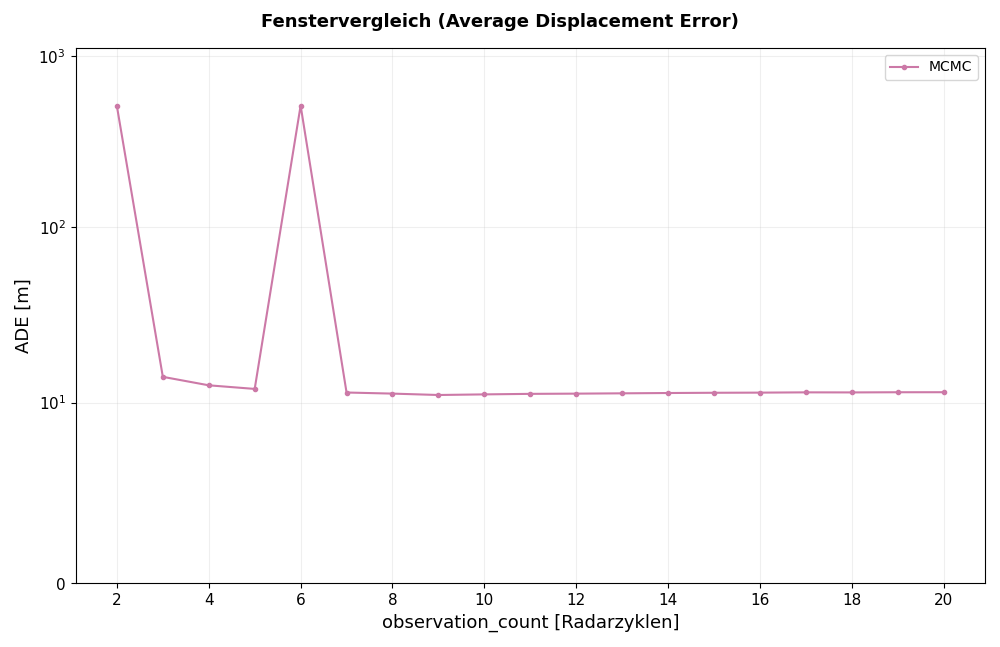
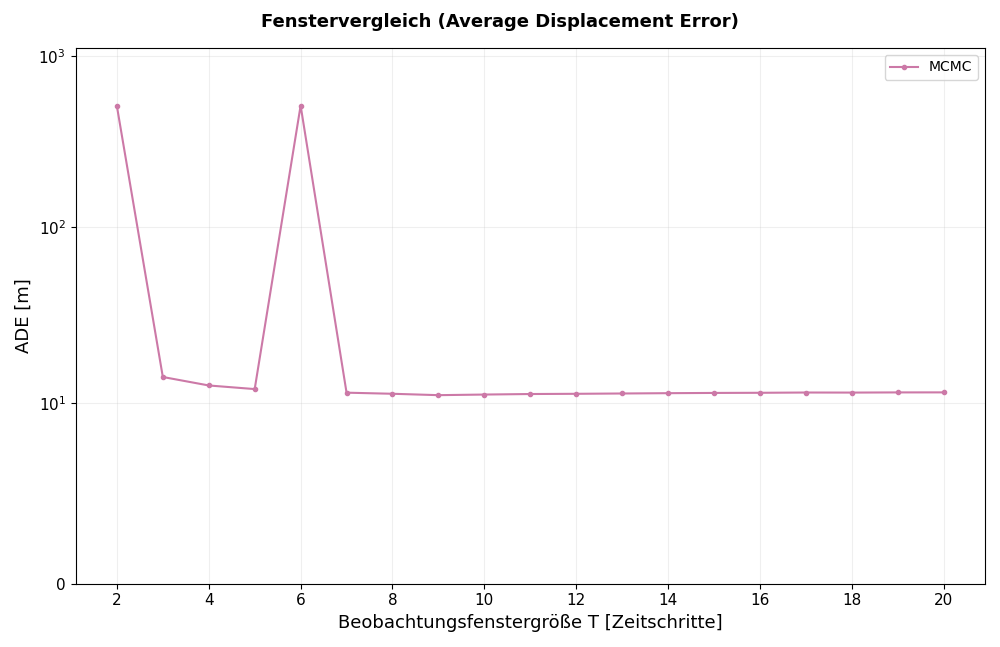
Align observation-count table notation with model comparisons and clarify observation window labels

diff --git a/tests/test_compare_bayesian_imm.py b/tests/test_compare_bayesian_imm.py
@@ -182,8 +182,8 @@ def test_configured_window_sizes_appear_in_curves_coverage_and_summary(
             ]
         figure, axis = figures[-1]
         cells = axis.tables[0].get_celld()
-        for column, label in enumerate(expected, start=1):
-            assert cells[0, column].get_text().get_text() == label.replace(" (", "\n(")
+        for row, label in enumerate(expected, start=1):
+            assert cells[row, 0].get_text().get_text() == label.replace(" (", "\n(")
         figure.canvas.draw()
         renderer = figure.canvas.get_renderer()
         for cell in cells.values():
@@ -537,11 +537,11 @@ def test_run_button_compares_all_five_csvs_without_running_models_or_writing_out
             assert axis.get_yscale() == "linear"
             np.testing.assert_allclose(axis.lines[0].get_ydata(), nominal)
         table = shown[8].axes[0].tables[0]
-        assert [table[0, column].get_text().get_text() for column in range(1, 6)] == [
+        assert [table[row, 0].get_text().get_text() for row in range(1, 6)] == [
             label.replace(" (", "\n(") for label in PLOT_MODEL_LABELS[plot_language]
         ]
         assert table[1, 1].get_text().get_text() == "9.250"
-        assert table[6, 1].get_text().get_text() == "25.0%"
+        assert table[1, 6].get_text().get_text() == "25.0%"
         assert set(tmp_path.iterdir()) == set(paths.values())
         assert {path: path.read_bytes() for path in paths.values()} == originals
     finally:
@@ -574,26 +574,26 @@ def test_summary_table_preserves_values_and_fits_labels_inside_export(
         cells = table.get_celld()
         assert len(cells) == 9 * (model_count + 1)
         assert cells[0, 0].get_text().get_text() == (
-            "Metrik" if plot_language == "de" else "Metric"
+            "Modell" if plot_language == "de" else "Model"
         )
         assert figure._suptitle.get_text() == (
             "Modellvergleich (Metrikübersicht)"
             if plot_language == "de"
             else "Model comparison (Metric summary)"
         )
-        assert cells[8, 0].get_text().get_text() == (
-            "Laufzeit [s]" if plot_language == "de" else "Runtime [s]"
+        assert cells[0, 8].get_text().get_text() == (
+            "Laufzeit\n[s]" if plot_language == "de" else "Runtime\n[s]"
         )
         assert cells[1, 1].get_text().get_text() == "9.250"
-        assert cells[8, 1].get_text().get_text() == "0.003"
-        assert cells[6, 1].get_text().get_text() == "25.0%"
-        assert cells[7, 1].get_text().get_text() == "75.0%"
+        assert cells[1, 8].get_text().get_text() == "0.003"
+        assert cells[1, 6].get_text().get_text() == "25.0%"
+        assert cells[1, 7].get_text().get_text() == "75.0%"
         assert list(summary.columns) == ["metric", *models, "preferred"]
-        for column, name in enumerate(models, start=1):
-            assert cells[0, column].get_text().get_text() == (
-                PLOT_MODEL_LABELS[plot_language][column - 1].replace(" (", "\n(")
+        for row, name in enumerate(models, start=1):
+            assert cells[row, 0].get_text().get_text() == (
+                PLOT_MODEL_LABELS[plot_language][row - 1].replace(" (", "\n(")
             )
-            for row, (metric, value) in enumerate(
+            for column, (metric, value) in enumerate(
                 zip(summary["metric"], summary[name], strict=True), start=1
             ):
                 assert cells[row, column].get_text().get_text() == (
@@ -617,7 +617,10 @@ def test_summary_table_preserves_values_and_fits_labels_inside_export(
 
 
 @pytest.mark.parametrize("plot_language", ["de", "en"])
-def test_summary_table_bolds_best_metrics_and_coverage_calibration(plot_language):
+@pytest.mark.parametrize("transpose", [False, True])
+def test_summary_table_bolds_best_metrics_and_coverage_calibration(
+    plot_language, transpose
+):
     summary = pd.DataFrame(
         {
             "metric": [
@@ -642,6 +645,7 @@ def test_summary_table_bolds_best_metrics_and_coverage_calibration(plot_language
         ["A", "B", "C"],
         text=runtime_plotting.COMPARISON_PLOT_TEXT[plot_language],
         title=None,
+        transpose=transpose,
     )
     try:
         cells = axis.tables[0].get_celld()
@@ -650,12 +654,16 @@ def test_summary_table_bolds_best_metrics_and_coverage_calibration(plot_language
             assert {
                 column
                 for column in (1, 2, 3)
-                if cells[row, column].get_text().get_weight() == "bold"
+                if cells[(column, row) if transpose else (row, column)]
+                .get_text()
+                .get_weight()
+                == "bold"
             } == expected
-            assert cells[row, 0].get_text().get_weight() == "normal"
+            if not transpose:
+                assert cells[row, 0].get_text().get_weight() == "normal"
         # Rank the original values even when displayed values round identically.
-        assert cells[6, 1].get_text().get_text() == "0.011"
-        assert cells[6, 2].get_text().get_text() == "0.011"
+        assert cells[(1, 6) if transpose else (6, 1)].get_text().get_text() == "0.011"
+        assert cells[(2, 6) if transpose else (6, 2)].get_text().get_text() == "0.011"
         pd.testing.assert_frame_equal(summary, original)
     finally:
         plt.close(figure)

diff --git a/src/bayestraj/validation/runtime_plotting.py b/src/bayestraj/validation/runtime_plotting.py
@@ -373,7 +373,15 @@ def plot_model_comparison(
             else text
         )
         figure, axis = _plot_comparison_summary_table(
-            summary, labels, text=summary_text, title=title
+            summary,
+            [label.replace(" (", "\n(") for label in labels],
+            text={
+                **summary_text,
+                "metric": "Modell" if plot_language == "de" else "Model",
+            },
+            title=title,
+            transpose=True,
+            metric_column_width=1.1,
         )
         if output_dir is not None:
             figure.savefig(
@@ -403,9 +411,9 @@ def plot_observation_count_comparison(
     text = COMPARISON_PLOT_TEXT[plot_language]
     title = "Fenstervergleich" if plot_language == "de" else "Window-size comparison"
     xlabel = (
-        "observation_count [Radarzyklen]"
+        "Beobachtungsfenstergröße T [Zeitschritte]"
         if plot_language == "de"
-        else "observation_count [radar cycles]"
+        else "Observation window size T [time steps]"
     )
     if output_dir is not None:
         output_dir = Path(output_dir)
@@ -495,7 +503,7 @@ def plot_observation_count_comparison(
         figures.append((figure, axis))
     if show_summary_table:
         configurations = {
-            f"{label} (n={int(row['observation_count'])})": [
+            f"{label} (T={int(row['observation_count'])})": [
                 row.get(metric, np.nan) for metric in metrics
             ]
             for label, table in models.items()
@@ -519,10 +527,12 @@ def plot_observation_count_comparison(
             **text,
             "metric": "Konfiguration" if plot_language == "de" else "Configuration",
             "summary_note": (
-                "n = konfigurierte Beobachtungsanzahl. Mittelwerte je Fenster.\n"
+                "T: maximale Anzahl der Zeitschritte im Beobachtungsfenster. "
+                "Mittelwerte je Fenster.\n"
                 "Coverage über alle Vorhersagepunkte; fett: nächster Sollwert."
                 if plot_language == "de"
-                else "n = configured observation count. Mean metrics per window.\n"
+                else "T: maximum number of time steps in the observation window. "
+                "Mean metrics per window.\n"
                 "Coverage over all forecast positions; bold: closest to nominal."
             ),
         }
@@ -553,12 +563,19 @@ def plot_observation_count_comparison(
 
 
 def _plot_comparison_summary_table(
-    summary, labels, *, text, title, metric_labels=None, transpose=False
+    summary,
+    labels,
+    *,
+    text,
+    title,
+    metric_labels=None,
+    transpose=False,
+    metric_column_width=1.5,
 ):
     """Render the computed comparison summary without recalculating metrics."""
     style = RUNTIME_PLOT_STYLE
     width = (
-        max(12.0, 2.0 + 1.5 * len(summary))
+        max(8.0, 2.0 + metric_column_width * len(summary))
         if transpose
         else max(8.0, 2.0 + 2.0 * len(labels))
     )

diff --git a/tests/test_compare_observation_counts.py b/tests/test_compare_observation_counts.py
@@ -326,8 +326,9 @@ def test_prior_predictive_windows_do_not_require_fit_diagnostics(result_dirs, me
 
 
 @pytest.mark.parametrize("metric_y_scale", ["linear", "symlog"])
+@pytest.mark.parametrize("plot_language", ["de", "en"])
 def test_plot_uses_recomputed_metrics_and_integer_ticks(
-    result_dirs, tmp_path, metric_y_scale
+    result_dirs, tmp_path, metric_y_scale, plot_language
 ):
     models = _read(result_dirs)
     figures = runtime_plotting.plot_observation_count_comparison(
@@ -335,12 +336,16 @@ def test_plot_uses_recomputed_metrics_and_integer_ticks(
         show=False,
         output_dir=tmp_path,
         metric_y_scale=metric_y_scale,
-        plot_language="en",
+        plot_language=plot_language,
     )
     try:
         assert len(figures) == len(MCMC_METRICS)
         for metric, (figure, axis) in zip(MCMC_METRICS, figures, strict=True):
-            assert "observation_count" in axis.get_xlabel()
+            assert axis.get_xlabel() == (
+                "Beobachtungsfenstergröße T [Zeitschritte]"
+                if plot_language == "de"
+                else "Observation window size T [time steps]"
+            )
             selected = {"MCMC": models["MCMC"]} if metric == "mcmc_rhat_max" else models
             curves = axis.lines[: len(selected)]
             assert [line.get_label() for line in curves] == list(selected)
@@ -554,7 +559,7 @@ def test_comparison_entrypoint_reads_forecasts_and_generates_summary(
                 assert 0 in figure.axes[0].get_yticks()
         if show_summary_table:
             cells = shown[-1].axes[0].tables[0].get_celld()
-            assert cells[1, 0].get_text().get_text() == f"{method.upper()} (n=2)"
+            assert cells[1, 0].get_text().get_text() == f"{method.upper()} (T=2)"
             assert cells[1, 1].get_text().get_text() == "5.000"
             if method == "mcmc":
                 assert cells[1, 9].get_text().get_text() == "1.012"
@@ -587,8 +592,8 @@ def test_observation_count_summary_table_preserves_metrics_and_fits_labels(
         assert not axis.axison
         cells = axis.tables[0].get_celld()
         assert len(cells) == (count + 1) * 10
-        assert cells[1, 0].get_text().get_text() == "MCMC (n=2)"
-        assert cells[count, 0].get_text().get_text() == f"MCMC (n={count + 1})"
+        assert cells[1, 0].get_text().get_text() == "MCMC (T=2)"
+        assert cells[count, 0].get_text().get_text() == f"MCMC (T={count + 1})"
         assert cells[1, 1].get_text().get_text() == "5.000"
         assert cells[1, 6].get_text().get_text() == "20.0%"
         assert cells[1, 8].get_text().get_text() == "0.300"
